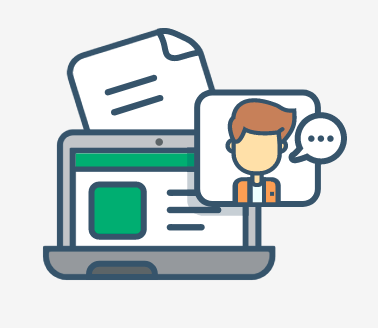
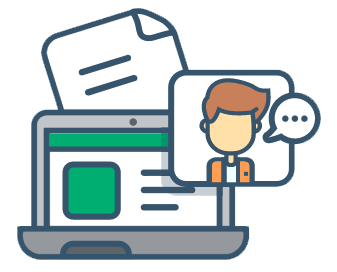
Modif - pimpage

diff --git a/front/CSS/accueil.css b/front/CSS/accueil.css
@@ -42,6 +42,8 @@ font-size: 22px;
 
 
 #gauche{
+  vertical-align: top;
+  text-align:center;
   margin-left: 15%;
   width: 20%;
   display: inline-block;
@@ -53,7 +55,9 @@ text-align: center;
 }
 
 #gauche img{
-margin-left: 9%;
+margin-left: 3%;
+height: 312px;
+width: 260px;
 }
 
 #gauche p{
@@ -63,25 +67,25 @@ margin-left: 9%;
 }
 
 #milieu{
+  vertical-align: top;
+  text-align:center;
   margin-left: 5%;
   width: 25%;
   display: inline-block;
 }
 
-
 #milieu h3{
 font-size: 22px;
 text-align: center;
-margin-left: 15%;
 }
 
 #milieu p{
   font-size: 20px;
   text-align: center;
-  margin-left: 15%;
 }
 
 #droite{
+  text-align:center;
   margin-left: 5%;
   width: 20%;
   display: inline-block;

diff --git a/front/CSS/cours.css b/front/CSS/cours.css
@@ -95,6 +95,7 @@ footer {
     top: 4em;
  }
 
+/*
  .egg {
    width: 100%;
    height: 30%;
@@ -102,3 +103,4 @@ footer {
    border-radius: 50% / 60% 60% 0% 0%;
    position: absolute;
  }
+ */

diff --git a/front/PHP/accueil.php b/front/PHP/accueil.php
@@ -21,7 +21,7 @@
   </div>
   <div id="droite">
     <img src="/front/IMG/pro.PNG"/>
-    <h3> Vous êtes débutant, amateur ou expert ?</h3>
+    <h3> Débutant, amateur ou expert ?</h3>
     <p> Nous donnons des cours pour tout type de niveau ! Et si vous ne savez pas quel niveau vous avez, faites nos qcm pour avoir des recommandations !</p>
   </div>
 </div>
